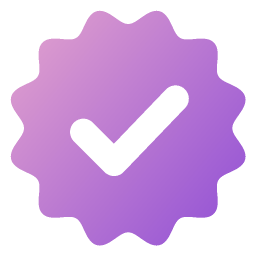
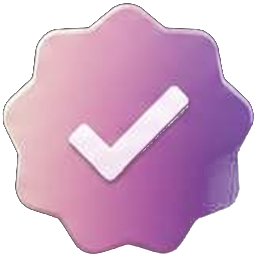
Fix profile actions, media reactions and flatten the dialogue list
The badge artwork is now the supplied image: cropped to the mark, scaled and
keyed onto a transparent background.

Reaction chips were positioned absolutely over the picture, so a message whose
media had no height yet threw them — and the timestamp beside them — onto the
chat background above the bubble. They now sit in the flow underneath the
media, where they cannot escape their container, and the parsing that decides
which chips exist moved into a module with tests: malformed JSON, empty
reactions, oversized keys and non-positive counts all collapse to no chips
instead of taking the conversation down.

The profile action row is a grid sized from its labels rather than flex-basis
plus :has(), which is what still cut "Написать" in half. The header emoji went
too far the other way and disappeared into a dark header: no blend mode, the
glyphs are lightened and kept at a readable opacity. Opening a link to your own
profile — from a forwarded message or a username — no longer shows you the
stranger's view of yourself with Follow and Block on it.

The dialogue list loses its card: rows run edge to edge and the hairline
between them starts where the text starts, as in Telegram.

diff --git a/apps/miniapp/src/styles.css b/apps/miniapp/src/styles.css
@@ -2263,22 +2263,16 @@ select:focus-visible {
   background: rgb(12 17 27 / 78%);
   backdrop-filter: blur(8px);
 }
+/* Reactions used to be laid over the picture, which put them in the wrong place
+   whenever the media had no height yet — the chips ended up floating above the
+   bubble on the chat background. They now sit in the flow underneath the media,
+   where they cannot escape their container. */
 .chat-media-carousel > .chat-message-secondary-actions {
-  position: absolute;
-  z-index: 6;
-  right: 8px;
-  bottom: 30px;
-  left: 8px;
   justify-content: space-between;
-  pointer-events: none;
-}
-.chat-media-carousel > .chat-message-secondary-actions > * {
-  pointer-events: auto;
+  padding: 6px 8px 2px;
 }
 .chat-media-carousel > .chat-message-secondary-actions .chat-reply-count {
   margin-left: auto;
-  color: #fff;
-  background: rgb(8 12 20 / 70%);
 }
 @media (max-width: 460px) {
   .telegram-message-row:has(.chat-media-carousel) .telegram-message-stack {
@@ -5040,13 +5034,17 @@ audio {
     width: 100%;
   }
 }
+/* The dialogue list is a plain list, the way Telegram shows it: no card around
+   it, the rows run to both edges of the screen, and the hairline between them
+   starts where the text starts rather than boxing every row in. */
 .telegram-chat-list {
-  overflow: hidden;
-  border: 1px solid var(--border);
-  border-radius: 22px;
-  background: rgba(17, 28, 42, 0.78);
+  border: 0;
+  border-radius: 0;
+  background: transparent;
+  margin-inline: -18px;
 }
 .telegram-chat-row {
+  position: relative;
   display: grid;
   width: 100%;
   min-width: 0;
@@ -5054,14 +5052,22 @@ audio {
   align-items: center;
   gap: 12px;
   border: 0;
-  border-bottom: 1px solid rgba(124, 146, 177, 0.14);
-  padding: 13px 14px;
+  padding: 11px 18px;
   text-align: left;
   color: var(--text);
   background: transparent;
 }
-.telegram-chat-row:last-child {
-  border-bottom: 0;
+.telegram-chat-row::after {
+  content: '';
+  position: absolute;
+  right: 0;
+  bottom: 0;
+  left: calc(18px + 3rem + 12px);
+  height: 1px;
+  background: color-mix(in srgb, var(--border) 70%, transparent);
+}
+.telegram-chat-row:last-child::after {
+  display: none;
 }
 .telegram-chat-row:active {
   background: rgba(143, 103, 220, 0.12);
@@ -7058,9 +7064,8 @@ body:has(.global-music-player) .page:has(.telegram-conversation) {
 }
 
 :root[data-theme='light'] .telegram-chat-list {
-  border-color: rgb(62 74 90 / 18%);
-  background: rgb(255 255 255 / 92%);
-  box-shadow: 0 12px 34px rgb(63 47 86 / 10%);
+  border: 0;
+  background: transparent;
 }
 :root[data-theme='light'] .telegram-chat-row {
   color: #182333;
@@ -9474,25 +9479,23 @@ body {
   line-height: 1.3;
 }
 
-/* Two labelled actions share the width; an icon-only owner action keeps its own
-   square beside them rather than wrapping to a lonely second row. */
+/* The labels are what this row is for, so the columns are sized from the text
+   and wrap to a second line when they no longer fit. A grid is used rather than
+   flex-basis so the widths do not depend on :has() support in the WebView. */
 .profile-actions-row {
-  display: flex;
+  display: grid;
+  grid-template-columns: repeat(auto-fit, minmax(124px, 1fr));
   align-items: stretch;
-  flex-wrap: wrap;
   gap: 8px;
   padding: 16px 18px 0;
   margin: 0;
 }
-/* The labels are what the row is for: give each button room for its text and
-   let the row wrap instead of cutting a word in half on a narrow screen. */
 .profile-actions-row > .button {
-  flex: 1 1 128px;
-  min-width: 128px;
+  width: 100%;
+  min-width: 0;
   padding-inline: 12px;
 }
-.profile-actions-row > .button:has(> svg:only-child) {
-  flex: 0 0 44px;
+.profile-actions-row > .profile-action-icon {
   min-width: 44px;
   padding: 0;
 }
@@ -9527,9 +9530,11 @@ body {
   align-content: start;
   justify-content: center;
   overflow: hidden;
-  opacity: 0.16;
-  filter: grayscale(1) contrast(0.65);
-  mix-blend-mode: soft-light;
+  /* Grayscale keeps a bright emoji from fighting the header tint, but a blend
+     mode on top of that left the pattern invisible on a dark header, so the
+     glyphs are simply lightened and kept at a readable opacity instead. */
+  opacity: 0.24;
+  filter: grayscale(1) brightness(1.75);
   font-size: 26px;
   line-height: 1;
   pointer-events: none;

diff --git a/apps/miniapp/src/pages/community.tsx b/apps/miniapp/src/pages/community.tsx
@@ -73,6 +73,7 @@ import { AnimatePresence, motion, useReducedMotion } from 'framer-motion';
 import { useUserStore } from '../store.js';
 import { DoubleHeartIcon } from '../components/double-heart-icon.js';
 import { useViewerTime } from '../components/viewer-time.js';
+import { parseMessageReactions } from '../components/chat-reactions.js';
 
 export function MatchesPage() {
   const queryClient = useQueryClient();
@@ -2669,30 +2670,14 @@ function reactionEmoji(value: string, label?: string): string {
   return legacy[value] ?? label?.split(/\s/u)[0] ?? value;
 }
 
-function ChatReactionSummary({
+export function ChatReactionSummary({
   message,
   onReact,
 }: {
   message: ConversationMessage;
   onReact: (reaction: ChatReaction) => void;
 }) {
-  let counts: Array<{ reaction: ChatReaction; count: number }> = [];
-  try {
-    const parsed: unknown = JSON.parse(message.reactions || '[]');
-    if (Array.isArray(parsed)) {
-      counts = parsed.filter(
-        (item): item is { reaction: ChatReaction; count: number } =>
-          typeof item === 'object' &&
-          item !== null &&
-          typeof Reflect.get(item, 'reaction') === 'string' &&
-          String(Reflect.get(item, 'reaction')).trim().length > 0 &&
-          String(Reflect.get(item, 'reaction')).length <= 16 &&
-          typeof Reflect.get(item, 'count') === 'number',
-      );
-    }
-  } catch {
-    counts = [];
-  }
+  const counts = parseMessageReactions(message.reactions);
   if (!counts.length) return null;
   return (
     <div className="chat-reaction-summary">

diff --git a/apps/miniapp/src/components/chat-reactions.test.ts b/apps/miniapp/src/components/chat-reactions.test.ts
@@ -1,0 +1,40 @@
+import { describe, expect, it } from 'vitest';
+import { parseMessageReactions } from './chat-reactions.js';
+
+describe('chat reaction summaries', () => {
+  it('keeps well formed reaction counts in order', () => {
+    expect(
+      parseMessageReactions('[{"reaction":"heart","count":2},{"reaction":"🔥","count":1}]'),
+    ).toEqual([
+      { reaction: 'heart', count: 2 },
+      { reaction: '🔥', count: 1 },
+    ]);
+  });
+
+  it('treats missing, empty and malformed payloads as no reactions', () => {
+    expect(parseMessageReactions(null)).toEqual([]);
+    expect(parseMessageReactions('')).toEqual([]);
+    expect(parseMessageReactions('[]')).toEqual([]);
+    expect(parseMessageReactions('not json')).toEqual([]);
+    expect(parseMessageReactions('{"reaction":"heart","count":1}')).toEqual([]);
+  });
+
+  it('drops entries that could not be rendered as a chip', () => {
+    expect(
+      parseMessageReactions(
+        JSON.stringify([
+          { reaction: '', count: 3 },
+          { reaction: '   ', count: 3 },
+          { reaction: 'x'.repeat(17), count: 3 },
+          { reaction: 'heart' },
+          { reaction: 'heart', count: 0 },
+          { reaction: 'heart', count: -2 },
+          { reaction: 'heart', count: Number.NaN },
+          null,
+          'heart',
+          { reaction: 'heart', count: 4 },
+        ]),
+      ),
+    ).toEqual([{ reaction: 'heart', count: 4 }]);
+  });
+});

diff --git a/apps/miniapp/src/pages/social.tsx b/apps/miniapp/src/pages/social.tsx
@@ -1030,6 +1030,14 @@ export function PublicProfileViewerPage() {
     refetchOnWindowFocus: 'always',
   });
   const resolvedUserId = profile.data?.id;
+  // A link to your own profile — from a forwarded message, a mention or a
+  // username — used to open the stranger's view of yourself, with Follow and
+  // Block on it. Send it to the page that belongs to you instead.
+  const ownUserId = useUserStore((state) => state.user?.id);
+  const viewingSelf = Boolean(ownUserId && resolvedUserId && ownUserId === resolvedUserId);
+  useEffect(() => {
+    if (viewingSelf) navigate('/profile', { replace: true });
+  }, [navigate, viewingSelf]);
   const profilePeople = useQuery({
     queryKey: ['profile-people', resolvedUserId, openPeopleSection],
     queryFn: () =>
@@ -1357,6 +1365,7 @@ export function PublicProfileViewerPage() {
           </Button>
           {viewerIsOwner ? (
             <Button
+              className="profile-action-icon"
               variant={profile.data.owner_liked ? 'primary' : 'secondary'}
               loading={rate.isPending}
               aria-label={ru.miniApp.social.ownerBlessAction}

diff --git a/apps/miniapp/src/components/chat-reactions.ts b/apps/miniapp/src/components/chat-reactions.ts
@@ -1,0 +1,34 @@
+import type { ChatReaction } from '../api.js';
+
+export interface ChatReactionCount {
+  reaction: ChatReaction;
+  count: number;
+}
+
+/**
+ * Reactions arrive as a JSON string built by the database. Anything malformed
+ * has to collapse to an empty list rather than throw, because a single bad row
+ * would otherwise take the whole conversation down with it.
+ */
+export function parseMessageReactions(raw: string | null | undefined): ChatReactionCount[] {
+  let parsed: unknown;
+  try {
+    parsed = JSON.parse(raw || '[]');
+  } catch {
+    return [];
+  }
+  if (!Array.isArray(parsed)) return [];
+  return parsed.filter((item): item is ChatReactionCount => {
+    if (typeof item !== 'object' || item === null) return false;
+    const reaction: unknown = Reflect.get(item, 'reaction');
+    const count: unknown = Reflect.get(item, 'count');
+    return (
+      typeof reaction === 'string' &&
+      reaction.trim().length > 0 &&
+      reaction.length <= 16 &&
+      typeof count === 'number' &&
+      Number.isFinite(count) &&
+      count > 0
+    );
+  });
+}
